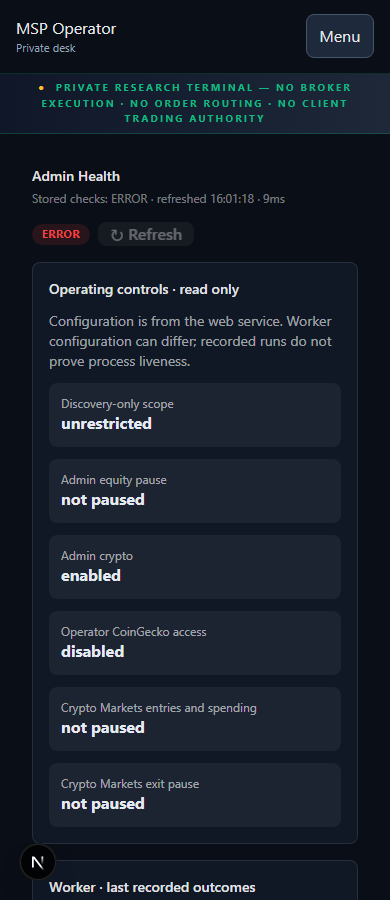
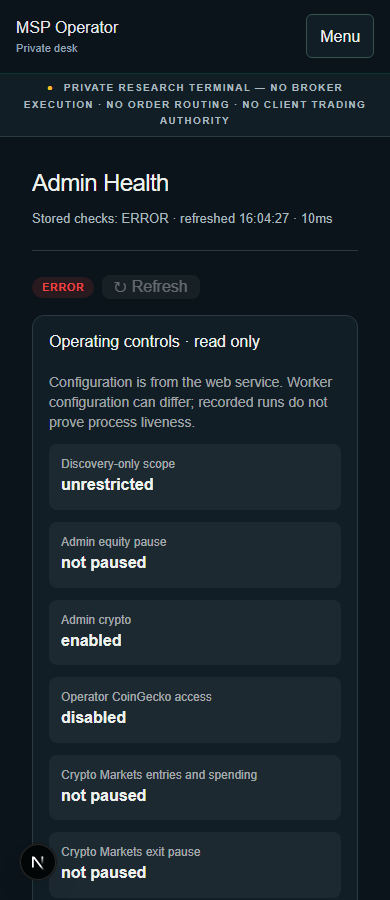
Align the private admin foundation with the approved research design

diff --git a/app/admin/admin-client-layout.tsx b/app/admin/admin-client-layout.tsx
@@ -266,16 +266,16 @@ export default function AdminClientLayout({ children, discoveryPaused = false }:
           <div style={{
             fontSize: "1.15rem",
             fontWeight: 700,
-            color: "#E5E7EB",
+            color: "var(--msp-text)",
             marginBottom: "1.5rem",
             padding: "0 0.5rem",
           }}>
-            <div style={{ color: "#10B981" }}>MSP Operator</div>
-            <div style={{ color: "#64748B", fontSize: "0.72rem", letterSpacing: "0.16em", textTransform: "uppercase", marginTop: "0.25rem" }}>
+            <div style={{ color: "var(--msp-accent)" }}>MSP Operator</div>
+            <div style={{ color: "var(--msp-text-muted)", fontSize: "0.72rem", letterSpacing: "0.16em", textTransform: "uppercase", marginTop: "0.25rem" }}>
               Private desk
             </div>
             {discoveryPaused && (
-              <div style={{ color: "#94A3B8", fontSize: "0.75rem", marginTop: "0.45rem", lineHeight: 1.35 }}>
+              <div style={{ color: "var(--msp-text-muted)", fontSize: "0.75rem", marginTop: "0.45rem", lineHeight: 1.35 }}>
                 Read-only while admin is paused
               </div>
             )}
@@ -293,15 +293,16 @@ export default function AdminClientLayout({ children, discoveryPaused = false }:
                     <Link
                       key={item.href}
                       href={item.href}
+                      aria-current={active ? "page" : undefined}
                       style={{
                         display: "flex",
                         alignItems: "center",
                         gap: "0.65rem",
                         padding: "0.58rem 0.65rem",
                         borderRadius: "0.5rem",
-                        color: active ? "#10B981" : "#9CA3AF",
-                        background: active ? "rgba(16, 185, 129, 0.1)" : "transparent",
-                        border: active ? "1px solid rgba(16,185,129,0.22)" : "1px solid transparent",
+                        color: active ? "var(--msp-accent)" : "var(--msp-text-muted)",
+                        background: active ? "#1b302e" : "transparent",
+                        border: active ? "1px solid var(--msp-border-strong)" : "1px solid transparent",
                         textDecoration: "none",
                         marginBottom: "0.18rem",
                         transition: "all 0.2s",
@@ -311,8 +312,8 @@ export default function AdminClientLayout({ children, discoveryPaused = false }:
                       <span style={{
                         minWidth: 28,
                         textAlign: "center",
-                        color: active ? "#0F172A" : "#94A3B8",
-                        background: active ? "#10B981" : "rgba(148,163,184,0.12)",
+                        color: active ? "#0F172A" : "var(--msp-text-muted)",
+                        background: active ? "var(--msp-accent)" : "rgba(148,163,184,0.12)",
                         borderRadius: 6,
                         padding: "0.16rem 0.22rem",
                         fontSize: "0.62rem",

diff --git a/components/admin/AdminNavigationFrame.module.css b/components/admin/AdminNavigationFrame.module.css
@@ -4,13 +4,46 @@
 .main { min-width: 0; display: flex; flex-direction: column; overflow: auto; }
 .main :global(.admin-page-content) { padding: 1.5rem 2rem 2rem; flex: 1; min-width: 0; }
 .mobileHeader, .close { display: none; }
+/* Match the approved research design, scoped to private admin only. */
+.frame {
+  --msp-bg: #0b141a;
+  --msp-card: #111e26;
+  --msp-panel: #111e26;
+  --msp-panel-2: #15262d;
+  --msp-card-2: #15262d;
+  --msp-border: #293a42;
+  --msp-border-strong: #38534d;
+  --msp-accent: #a5e8cf;
+  --msp-accent-dim: #8bcbb3;
+  --msp-text: #edf1ed;
+  --msp-text-muted: #a8b9bf;
+  --msp-text-faint: #91a5ae;
+  color: var(--msp-text);
+  font-family: Arial, sans-serif;
+  line-height: 1.6;
+}
+.sidebar { background: #0d181f; border-color: var(--msp-border); }
+.sidebar a { min-height: 44px; }
+.frame :global(.admin-design-card) {
+  background: var(--msp-panel);
+  border: 1px solid var(--msp-border);
+  border-radius: 12px;
+  padding: clamp(16px, 2vw, 24px);
+  box-shadow: none;
+}
+.frame :global(.admin-design-card-heading) { gap: 12px; flex-wrap: wrap; margin-bottom: 20px; }
+.frame :global(.admin-design-card-heading) > div { color: var(--msp-text); font-size: 16px; font-weight: 500; }
+.frame :global(.admin-design-title) { margin-bottom: 24px; padding-bottom: 20px; border-bottom: 1px solid var(--msp-border); }
+.frame :global(.admin-design-title) > div:first-child { color: var(--msp-text); font-size: clamp(24px, 3vw, 32px); font-weight: 500; letter-spacing: -.6px; line-height: 1.2; }
+.frame :global(.admin-design-title) > div + div { color: var(--msp-text-muted); font-size: 13px; line-height: 1.7; margin-top: 10px; }
+.frame :is(a, button, input, select, textarea):focus-visible { outline: 2px solid var(--msp-accent); outline-offset: 4px; }
 @media (max-width: 767px) {
   .sidebar { display: none; position: fixed; inset: 0 auto 0 0; width: min(320px, calc(100vw - 48px)); z-index: 1001; overscroll-behavior: contain; }
   .sidebar.open { display: flex; }
   .backdrop { position: fixed; inset: 0; background: rgba(0,0,0,.65); z-index: 1000; }
   .mobileHeader { display: flex; align-items: center; justify-content: space-between; gap: 1rem; padding: .9rem 1rem; border-bottom: 1px solid rgba(16,185,129,.2); color: #e5e7eb; }
   .mobileHeader small { display: block; color: #94a3b8; font-size: .7rem; }
-  .mobileHeader button, .close { min-height: 44px; padding: .5rem .8rem; border: 1px solid #475569; border-radius: .5rem; color: #e5e7eb; background: #1e293b; }
+  .mobileHeader button, .close { min-height: 44px; padding: .5rem .8rem; border: 1px solid var(--msp-border-strong); border-radius: 6px; color: var(--msp-text); background: var(--msp-panel); }
   .close { display: block; align-self: flex-end; margin-bottom: 1rem; }
   .main :global(.admin-page-content) { padding: 1rem; }
 }

diff --git a/components/admin/AdminBoundaryBanner.tsx b/components/admin/AdminBoundaryBanner.tsx
@@ -14,15 +14,15 @@ export default function AdminBoundaryBanner() {
       role="note"
       aria-label="Admin boundary notice"
       style={{
-        background: "linear-gradient(90deg, rgba(15,23,42,0.95) 0%, rgba(30,41,59,0.95) 100%)",
-        borderBottom: "1px solid rgba(16, 185, 129, 0.25)",
+        background: "var(--msp-panel)",
+        borderBottom: "1px solid var(--msp-border)",
         padding: "0.4rem 1rem",
         textAlign: "center",
         fontSize: "0.65rem",
         fontWeight: 700,
-        letterSpacing: "0.18em",
+        letterSpacing: "0.1em",
         textTransform: "uppercase",
-        color: "#10B981",
+        color: "var(--msp-text-muted)",
         userSelect: "none",
       }}
     >

diff --git a/components/admin/shared/AdminCard.tsx b/components/admin/shared/AdminCard.tsx
@@ -9,9 +9,9 @@ type Props = {
 
 export default function AdminCard({ title, children, className = "", actions }: Props) {
   return (
-    <div className={`rounded-lg border border-white/10 bg-[#101826] p-4 shadow-sm ${className}`}>
+    <div className={`admin-design-card rounded-lg border border-white/10 bg-[#101826] p-4 shadow-sm ${className}`}>
       {title ? (
-        <div className="mb-3 flex items-center justify-between">
+        <div className="admin-design-card-heading mb-3 flex items-center justify-between">
           <div className="text-sm font-semibold text-white/90">{title}</div>
           {actions}
         </div>

diff --git a/components/admin/shared/SectionTitle.tsx b/components/admin/shared/SectionTitle.tsx
@@ -5,7 +5,7 @@ type Props = {
 
 export default function SectionTitle({ title, subtitle }: Props) {
   return (
-    <div className="mb-3">
+    <div className="admin-design-title mb-3">
       <div className="text-sm font-semibold text-white/90">{title}</div>
       {subtitle ? <div className="mt-1 text-xs text-white/45">{subtitle}</div> : null}
     </div>
